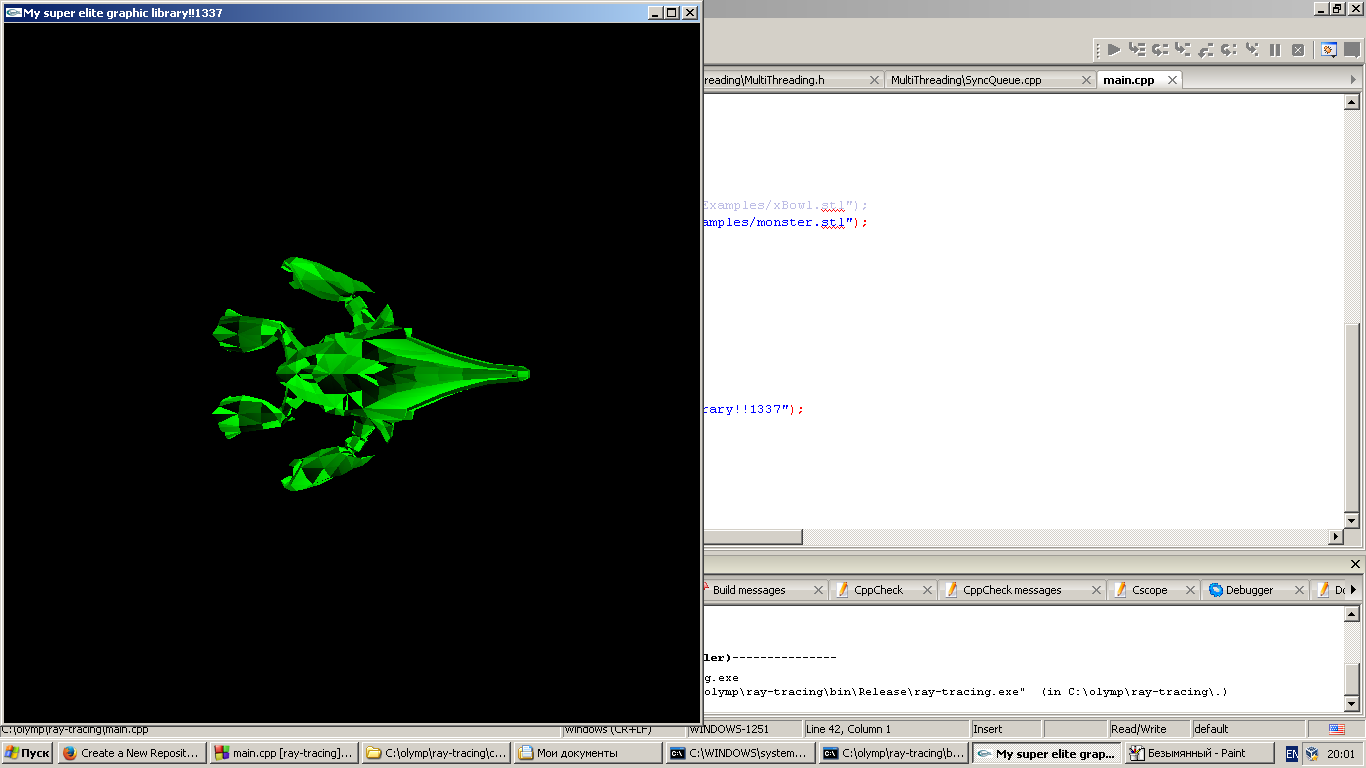
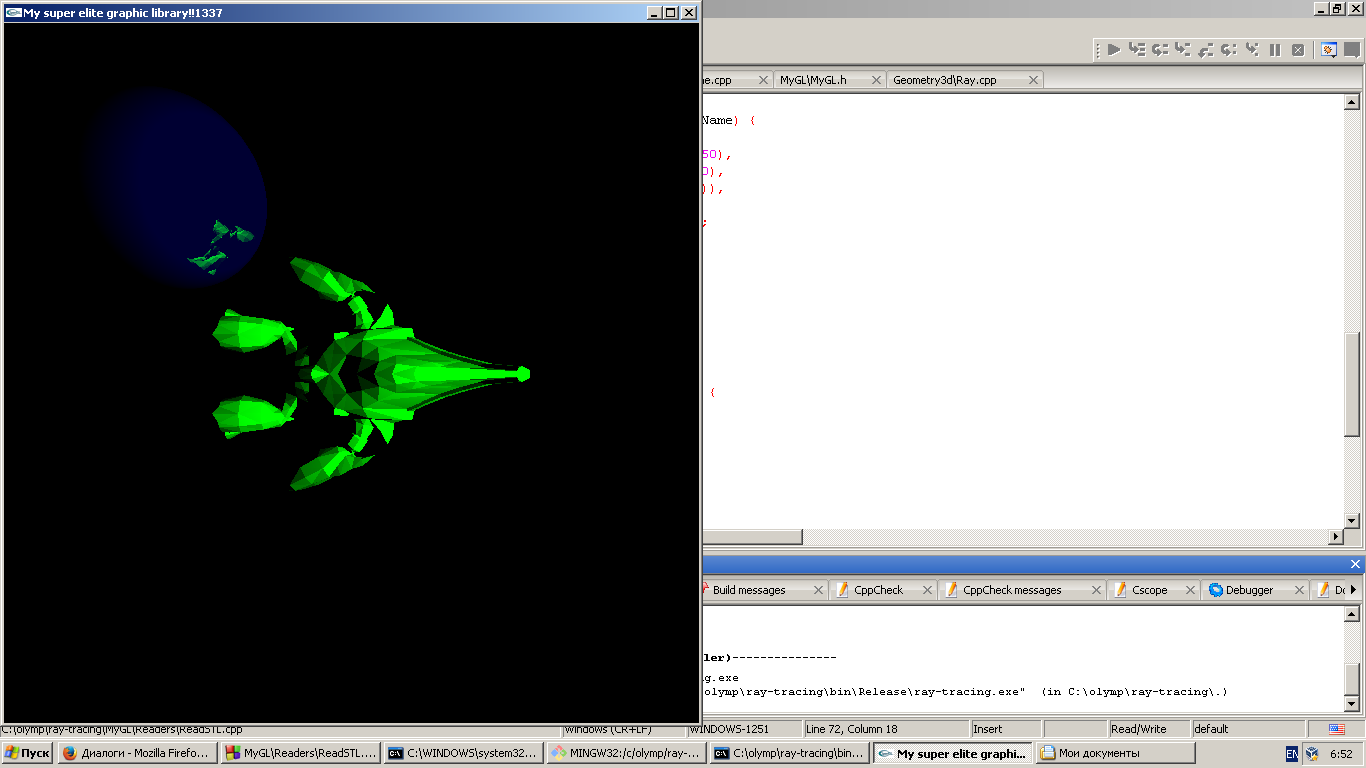
bugs fixed and reflection added

diff --git a/MyGL/MyGL.h b/MyGL/MyGL.h
@@ -11,14 +11,14 @@ namespace MyGL {
     public:
         Color();
         Color(unsigned char red, unsigned char green, unsigned char blue);
-        unsigned char mRed, mGreen, mBlue;
+        double mRed, mGreen, mBlue;
 
         Color operator*(double c) const {
             return Color(std::min(255., c * mRed), std::min(255., c * mGreen), std::min(255., c * mBlue));
         }
 
         Color operator+(Color const &other) const {
-            return Color(std::min(255, mRed + other.mRed), std::min(255, mGreen + other.mGreen), std::min(255, mBlue + other.mBlue));
+            return Color(std::min(255., mRed + other.mRed), std::min(255., mGreen + other.mGreen), std::min(255., mBlue + other.mBlue));
         }
     };
 
@@ -29,8 +29,8 @@ namespace MyGL {
         Scene(Geometry3d::Vector camera, Geometry3d::Parallelogram screen,
               std::pair<int, int> resolution, int threads = -1);
 
-        void addUnit(Geometry3d::Shape *shape, Color color);
-        void addUnit(Geometry3d::Shape const &shape, Color color);
+        void addUnit(Geometry3d::Shape *shape, Color color, double reflectance = 0);
+        void addUnit(Geometry3d::Shape const &shape, Color color, double reflectance = 0);
         void addLight(Geometry3d::Vector const &source, double strength) {
             mLights.push_back(LightSource(source, strength));
         }
@@ -40,14 +40,16 @@ namespace MyGL {
         Geometry3d::Parallelogram mScreen;
     private:
         static const int RECTANGLE_COUNT_SQRT = 25;
+        static const int MAX_REFLECTION_DEPTH = 5;
         class LightSource {
         public:
             LightSource() { }
             LightSource(Geometry3d::Vector const &source, double strength) : mSource(source), mStrength(strength) { }
 
             double getIntencity(Geometry3d::Vector const &point, Geometry3d::Vector const &normal) const {
-                return mStrength * (Geometry3d::Vector::scalarProduction(normal, point - mSource))
-                / pow(point.distanceTo(mSource), 3.); // 3, as we have an extra multiplier from scalar production
+                return fabs(mStrength * (Geometry3d::Vector::scalarProduction(normal, mSource - point))
+                            / pow(point.distanceTo(mSource), 3.)); // 3, as there's an extra multiplier
+                                                                   // from scalar production
             }
 
             Geometry3d::Vector mSource;
@@ -74,10 +76,11 @@ namespace MyGL {
         class Unit {
         public:
             Unit();
-            Unit(Geometry3d::Shape *shape, BoundingBox boundingbox, Color color);
+            Unit(Geometry3d::Shape *shape, BoundingBox boundingbox, Color color, double reflectance = 0);
             Geometry3d::Shape *mShape;
             BoundingBox mBoundingBox;
-            Color mColor;
+            Color mColor;\
+            double mReflectance;
         };
 
         class KDTree {
@@ -91,6 +94,7 @@ namespace MyGL {
             const unsigned int MAX_COUNT_IN_LEAF = 10;
 
             class Node {
+
             public:
                 enum Axes {
                     AXIS_X = 0,
@@ -115,7 +119,7 @@ namespace MyGL {
         void traceRectangle(Geometry3d::Vector const &axis0, Geometry3d::Vector const &axis1,
                             int xFrom, int xTo, int yFrom, int yTo,
                             std::vector<std::vector<Color>> &pixels);
-        Color trace(Geometry3d::Ray const &ray) const;
+        Color trace(Geometry3d::Ray const &ray, int curDepth = 0) const;
 
         std::pair<int, int> mResolution;
 

diff --git a/MyGL/Scene.cpp b/MyGL/Scene.cpp
@@ -14,15 +14,15 @@ Scene::Scene(Vector camera, Parallelogram screen,
 
 Scene::Unit::Unit() { }
 
-Scene::Unit::Unit(Shape *shape, BoundingBox boundingBox, Color color) :
-    mShape(shape), mBoundingBox(boundingBox), mColor(color) { }
+Scene::Unit::Unit(Shape *shape, BoundingBox boundingBox, Color color, double reflectance) :
+    mShape(shape), mBoundingBox(boundingBox), mColor(color), mReflectance(reflectance) { }
 
-void Scene::addUnit(Shape *shape, Color color) {
-    mUnits.push_back(Unit(shape, BoundingBox(shape), color));
+void Scene::addUnit(Shape *shape, Color color, double reflectance) {
+    mUnits.push_back(Unit(shape, BoundingBox(shape), color, reflectance));
 }
 
-void Scene::addUnit(Geometry3d::Shape const &shape, Color color) {
-    mUnits.push_back(Unit(shape.clone(), BoundingBox(&shape), color));
+void Scene::addUnit(Geometry3d::Shape const &shape, Color color, double reflectance) {
+    mUnits.push_back(Unit(shape.clone(), BoundingBox(&shape), color, reflectance));
 }
 
 void Scene::traceRectangle(Vector const &axis0, Vector const &axis1,
@@ -70,16 +70,29 @@ void Scene::rayTrace(std::vector<std::vector<Color>> &pixels) {
     }
 }
 
-Color Scene::trace(const Ray &ray) const {
+Color Scene::trace(const Ray &ray, int curDepth) const {
     auto result = mKDTree.trace(mCamera, ray);
     if (result.second < 0) {
         return Color(0, 0, 0); // black
     }
     Color answer(0, 0, 0);
+    auto point = result.first->mShape->intersect(ray).mPoints[0];
+    auto normal = result.first->mShape->getNormal(point);
     for (auto &source : mLights) {
-        // simplest case
-        auto point = result.first->mShape->intersect(ray).mPoints[0];
-        answer = answer + result.first->mColor * source.getIntencity(point, result.first->mShape->getNormal());
+        Ray checkRay(source.mSource, point);
+        auto check = mKDTree.trace(source.mSource, checkRay);
+        if (check.first != result.first) {
+            continue;
+        }
+        if ((check.first->mShape->intersect(checkRay).mPoints[0] - point).abs() > EPS) {
+            continue;
+        }
+        answer = answer + result.first->mColor * source.getIntencity(point, normal);
+    }
+    if (result.first->mReflectance > 0 && curDepth < MAX_REFLECTION_DEPTH) {
+        Vector newPoint(point + ray.mDirection - 2. * Vector::scalarProduction(normal, ray.mDirection) * normal);
+        answer = answer * (1. - result.first->mReflectance)
+            + trace(Ray(point, newPoint), curDepth + 1) * result.first->mReflectance;
     }
     return answer;
 }

diff --git a/Geometry3d/Sphere.h b/Geometry3d/Sphere.h
@@ -3,6 +3,10 @@
 
 #include "Shape.h"
 #include "Vector.h"
+#include "Ray.h"
+#include "Utils.h"
+#include <cmath>
+#include <iostream>
 
 namespace Geometry3d {
 
@@ -11,6 +15,50 @@ namespace Geometry3d {
         Sphere();
         Sphere(Vector const &center, double radius);
 
+        virtual Intersection intersect(Ray const &ray) const {
+            // |ray.start + t * ray.direction - center| = r
+            // |ray.start + t * ray.direction - center| ^ 2 = r ^ 2
+            auto p0 = ray.mStart - mCenter;
+            // a * t^2 + b * t + c = 0
+            double a = Utils::sqr(ray.mDirection.mX) + Utils::sqr(ray.mDirection.mY) + Utils::sqr(ray.mDirection.mZ);
+            double b = 2. * (p0.mX * ray.mDirection.mX + p0.mY * ray.mDirection.mY + p0.mZ * ray.mDirection.mZ);
+            double c = Utils::sqr(p0.mX) + Utils::sqr(p0.mY) + Utils::sqr(p0.mZ) - Utils::sqr(mRadius);
+            double D = Utils::sqr(b) - 4. * a * c;
+            if (D < EPS) {
+                return Intersection();
+            }
+            D = sqrt(D);
+            std::vector<Vector> result(2);
+            double t0 = (-b - D) / (2. * a);
+            double t1 = (-b + D) / (2. * a);
+            if (t0 > t1) {
+                std::swap(t0, t1);
+            }
+            if (t0 > EPS) {
+                std::vector<Vector> result(2);
+                result[0] = ray.mStart + t0 * ray.mDirection;
+                result[1] = ray.mStart + t1 * ray.mDirection;
+                return Intersection(result);
+            }
+            if (t1 > EPS) {
+                return Intersection(std::vector<Vector>(1, ray.mStart + t1 * ray.mDirection));
+            }
+            return Intersection();
+        }
+        virtual std::vector<Vector> getPoints() const {
+            std::vector<Vector> result;
+            // for bounding box
+            result.push_back(mCenter + Vector(mRadius, mRadius, mRadius));
+            result.push_back(mCenter - Vector(mRadius, mRadius, mRadius));
+            return result;
+        }
+        virtual Vector getNormal(Vector const &point) const {
+            auto ans = point - mCenter;
+            return ans / ans.abs();
+        }
+        virtual Shape* clone() const {
+            return new Sphere(*this);
+        }
     private:
         Vector mCenter;
         double mRadius;

diff --git a/MyGL/Readers/ReadSTL.cpp b/MyGL/Readers/ReadSTL.cpp
@@ -2,6 +2,7 @@
 #include <fstream>
 #include <iomanip>
 #include <iostream>
+#include "../../Geometry3d/Sphere.h"
 
 using namespace std;
 using namespace MyGL;
@@ -57,13 +58,13 @@ MyGL::Scene ReadSTL::readBinary(const char *fileName) {
                               Vector(-50, -50, 50),
                               Vector(-50, 50, 50)),
                 make_pair(700, 700), 4);
-    scene.addLight(Vector(-100, -100, -100), 100000.);
+    scene.addLight(Vector(-100, 0, 100), 60000.);
     ifstream fin(fileName, ios::binary|ios::in);
     char *tmp = new char[100];
     fin.read(tmp, 80);
     unsigned int triangleCount;
     fin.read((char *)&triangleCount, 4);
-    triangleCount = 800;
+    //triangleCount = 800;
     cerr << triangleCount << endl;
     float x, y, z;
     unsigned int attribute;
@@ -85,5 +86,10 @@ MyGL::Scene ReadSTL::readBinary(const char *fileName) {
     }
     delete tmp;
     fin.close();
+
+    Geometry3d::Shape *fig = (Geometry3d::Shape *)new Geometry3d::Sphere(
+           Geometry3d::Vector(0, 50, -50), 25);
+    scene.addUnit(fig, MyGL::Color(0, 0, 200), 0.8);
+
     return scene;
 }

diff --git a/MyGL/Examples/Examples.hpp b/MyGL/Examples/Examples.hpp
@@ -2,6 +2,7 @@
 #define GRAPHIC_LIBRARY_EXAMPLES_HPP
 
 #include "../MyGL.h"
+#include "../../Geometry3d/Sphere.h"
 #include <iostream>
 
 class Examples {
@@ -18,9 +19,20 @@ public:
                 Geometry3d::Vector(0, 10, 0.3),
                 Geometry3d::Vector(5, 5, 5));
         redTriangle.addUnit(fig, red);
+        redTriangle.addLight(Geometry3d::Vector(2, 0, 8), 100.);
+
+        screen = Geometry3d::Parallelogram(Geometry3d::Vector(1, 0, -1),
+                                           Geometry3d::Vector(0, 1, -1),
+                                           Geometry3d::Vector(0, 1, 1));
+        greenSphere = MyGL::Scene(zero, screen, std::make_pair(700, 700), 1);
+        fig = (Geometry3d::Shape *)new Geometry3d::Sphere(
+                Geometry3d::Vector(10, 10, 10), 5);
+        greenSphere.addUnit(fig, MyGL::Color(0, 200, 0));
+        greenSphere.addLight(Geometry3d::Vector(-1, 0, 3), 100.);
     }
 
     MyGL::Scene redTriangle;
+    MyGL::Scene greenSphere;
 };
 
 #endif // GRAPHIC_LIBRARY_EXAMPLES_HPP

diff --git a/Geometry3d/Triangle.h b/Geometry3d/Triangle.h
@@ -15,13 +15,13 @@ namespace Geometry3d {
 
         virtual Intersection intersect(Ray const &) const;
         virtual std::vector<Vector> getPoints() const;
-        virtual Vector getNormal() const {
-            auto ans = Vector::vectorProduction(mPoints[1] - mPoints[0], mPoints[2] - mPoints[0]);
-            return ans / ans.abs();
+        virtual Vector getNormal(Vector const &point) const {
+            return mNormal;
         }
         virtual Shape *clone() const;
     private:
         Vector mPoints[3];
+        Vector mNormal;
         Plane mPlane;
     };
 

diff --git a/main.cpp b/main.cpp
@@ -32,9 +32,10 @@ void Initialize() {
 
 int main(int argc, char **argv) {
 
-    //auto scene = Readers::ReadSTL::read("MyGL/Examples/xBowl.stl");
-    auto scene = Readers::ReadSTL::read("MyGL/Examples/monster.stl");
+    auto scene = Readers::ReadSTL::read("MyGL/Examples/xBowl.stl");
+    //auto scene = Readers::ReadSTL::read("MyGL/Examples/monster.stl");
     //auto scene = Examples().redTriangle;
+    //auto scene = Examples().greenSphere;
 
     scene.rayTrace(pixels);
 

diff --git a/Geometry3d/Shape.h b/Geometry3d/Shape.h
@@ -17,7 +17,7 @@ namespace Geometry3d {
 //        virtual Intersection intersect(Quadrangle const &) const = 0;
 //        virtual Intersection intersect(Parallelogram const &) const = 0;
         virtual std::vector<Vector> getPoints() const = 0;
-        virtual Vector getNormal() const = 0;
+        virtual Vector getNormal(Vector const &point) const = 0;
         virtual Shape* clone() const = 0;
     };
 

diff --git a/Geometry3d/Parallelogram.h b/Geometry3d/Parallelogram.h
@@ -16,7 +16,7 @@ namespace Geometry3d {
 
         virtual Intersection intersect(Ray const &) const;
         virtual std::vector<Vector> getPoints() const;
-        virtual Vector getNormal() const {
+        virtual Vector getNormal(Vector const &point) const {
             return Vector(2, 2, 8);
         }
         virtual Shape *clone() const;

diff --git a/Geometry3d/Triangle.cpp b/Geometry3d/Triangle.cpp
@@ -10,6 +10,8 @@ Triangle::Triangle(const Vector &f, const Vector &s, const Vector &t) : mPlane(f
     mPoints[0] = f;
     mPoints[1] = s;
     mPoints[2] = t;
+    mNormal = Vector::vectorProduction(mPoints[1] - mPoints[0], mPoints[2] - mPoints[0]);
+    mNormal = mNormal / mNormal.abs();
 }
 
 Vector const& Triangle::getPoint(int index) const {

diff --git a/Geometry3d/Utils.h b/Geometry3d/Utils.h
@@ -6,6 +6,7 @@ namespace Geometry3d {
     namespace Utils {
 
         int sign(double);
+        double sqr(double x);
 
     }
 

diff --git a/Geometry3d/Utils.cpp b/Geometry3d/Utils.cpp
@@ -11,3 +11,7 @@ int Utils::sign(double a) {
     }
     return 0;
 }
+
+double Utils::sqr(double x) {
+    return x * x;
+}
